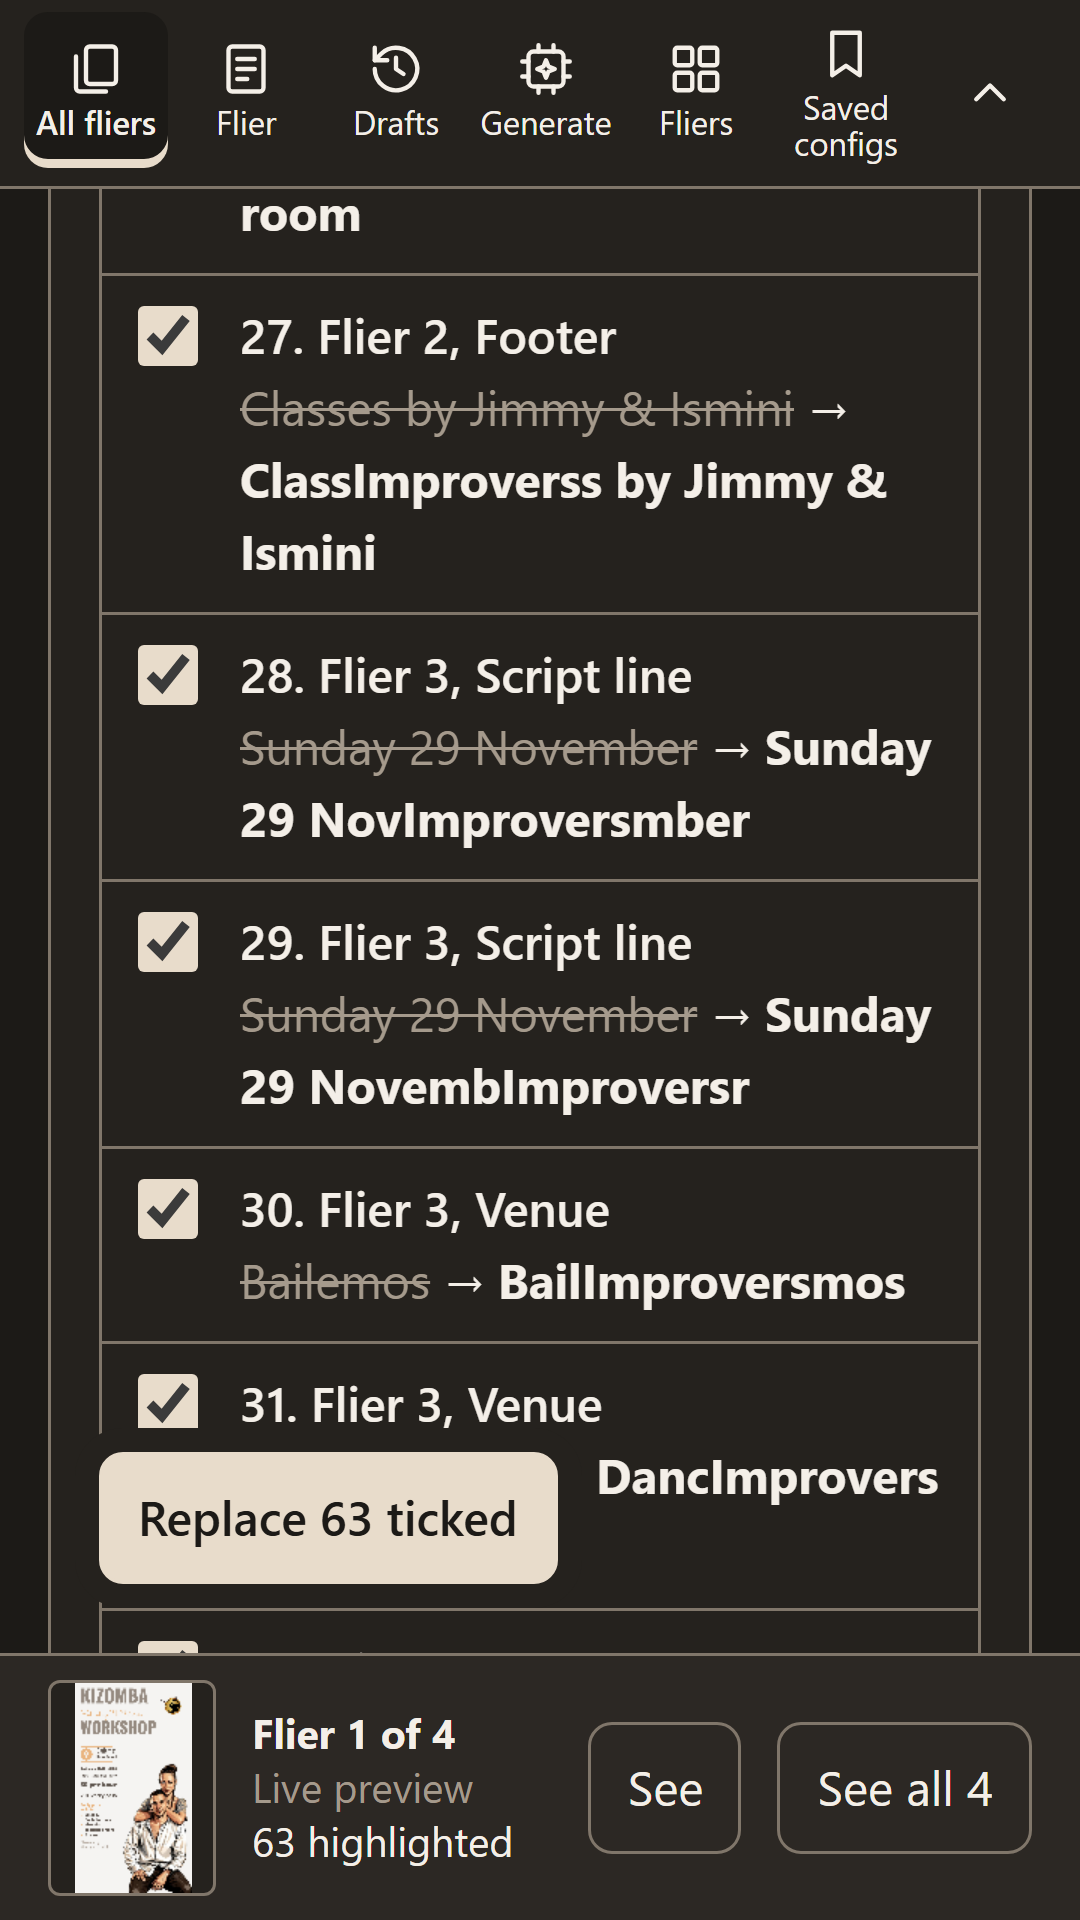
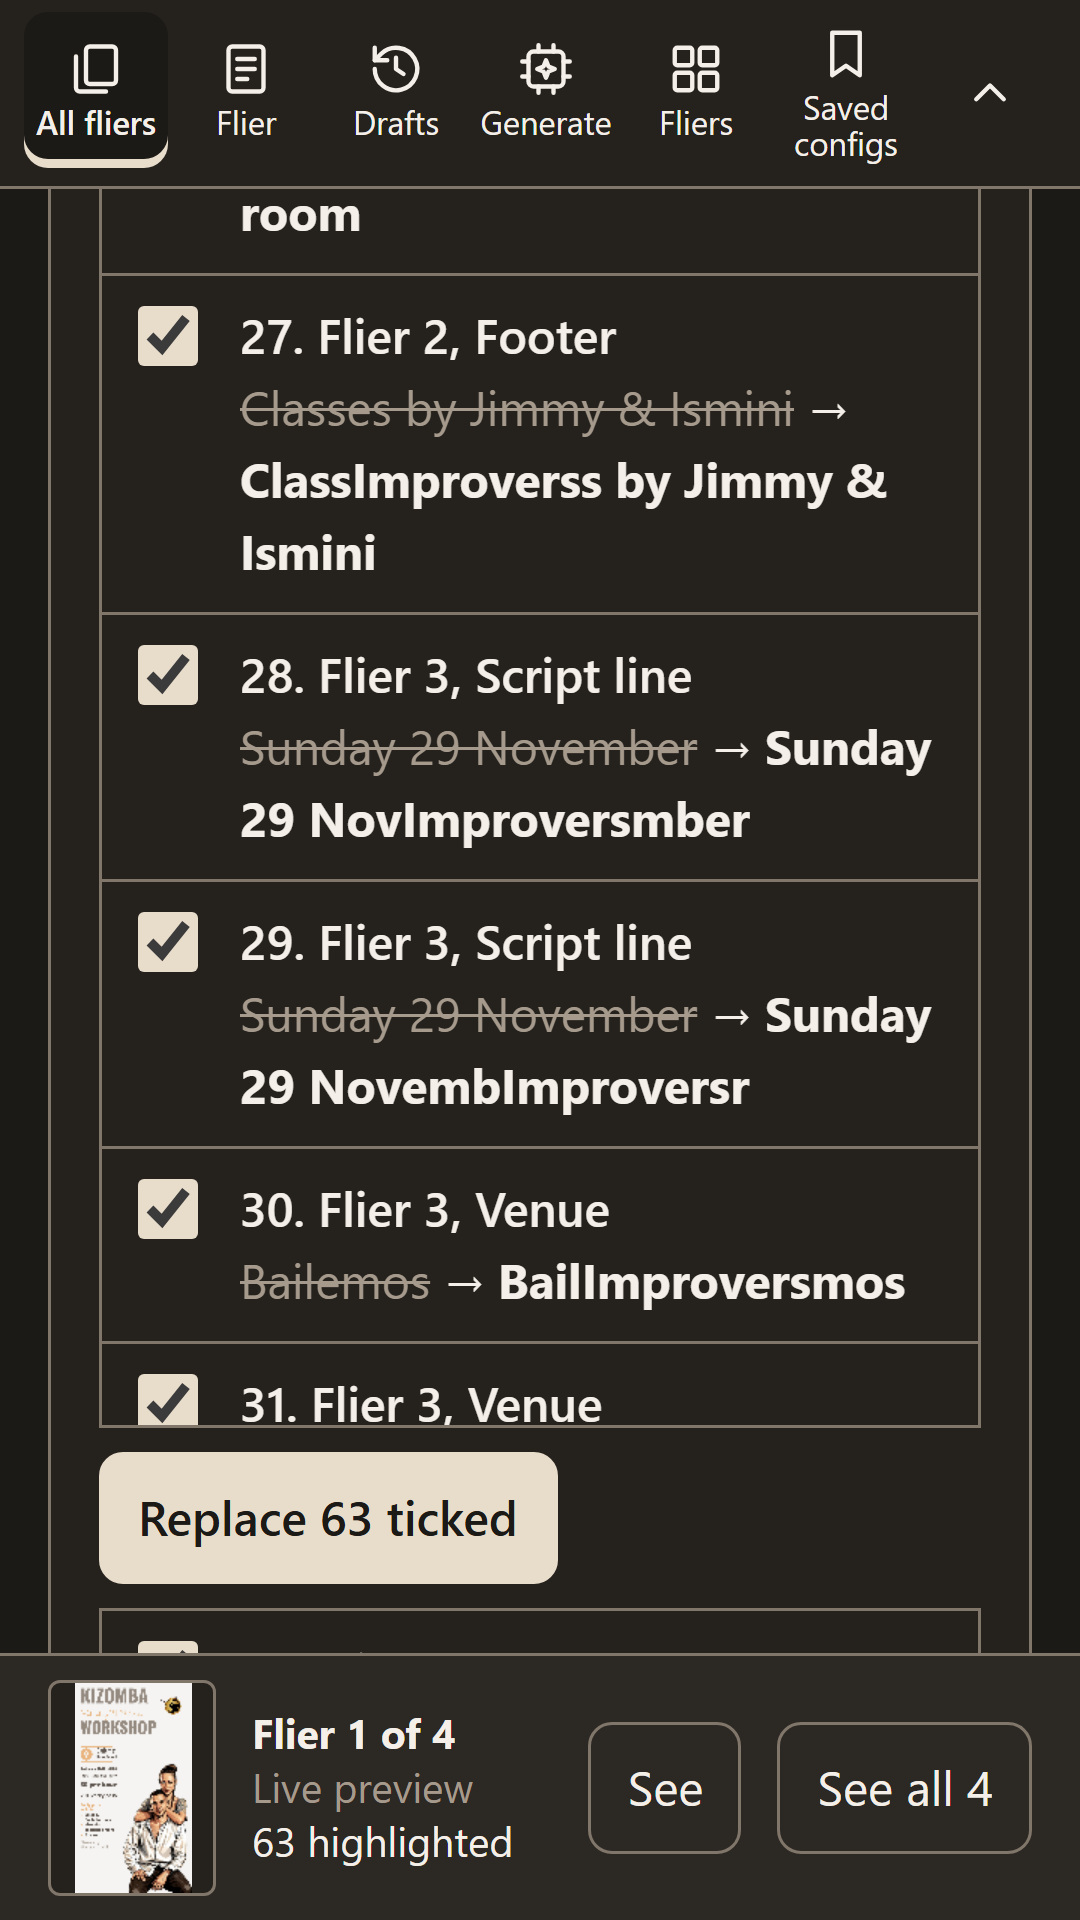
fix(FLIER-2 "Flier Studio follow-ups"): full-width sticky Replace bar, 0-doc render ticket check, restore CRLF
- Replace button sits in a full-width sticky bar (surface background, top hairline) so no row is cut beside it
- renderPreviews checks the render ticket after the draw loop, so a stale 0-flier render no longer clears the grid
- badgePlacement uses the exported offsets directly
- previews.ts, generate.ts, replacePanel.ts, sidebar.css back to their original line endings

visual-review: none -- critic REDO fix; captures in docs/design/FLIER-2-smallfixes/

Changed region(s): [[0.55, 0.75, 0.8861, 0.7812], [0.1833, 0.7812, 0.2139, 0.8125]]

diff --git a/src/ui/badgePlacement.ts b/src/ui/badgePlacement.ts
@@ -4,17 +4,15 @@ export interface Box { l: number; t: number; r: number; b: number }
 
 export const BADGE_GAP_PX = 4;
 export const BADGE_EDGE_PX = 2;
-const GAP = BADGE_GAP_PX;
-const EDGE = BADGE_EDGE_PX;
 
 function candidates(mark: Box, w: number, h: number): [BadgeSpot, Box][] {
   const mid = (mark.t + mark.b) / 2 - h / 2;
-  const left = mark.l - EDGE;
+  const left = mark.l - BADGE_EDGE_PX;
   return [
-    [BadgeSpot.Left, { l: mark.l - GAP - w, t: mid, r: mark.l - GAP, b: mid + h }],
-    [BadgeSpot.Right, { l: mark.r + GAP, t: mid, r: mark.r + GAP + w, b: mid + h }],
-    [BadgeSpot.Below, { l: left, t: mark.b + EDGE, r: left + w, b: mark.b + EDGE + h }],
-    [BadgeSpot.Above, { l: left, t: mark.t - EDGE - h, r: left + w, b: mark.t - EDGE }],
+    [BadgeSpot.Left, { l: mark.l - BADGE_GAP_PX - w, t: mid, r: mark.l - BADGE_GAP_PX, b: mid + h }],
+    [BadgeSpot.Right, { l: mark.r + BADGE_GAP_PX, t: mid, r: mark.r + BADGE_GAP_PX + w, b: mid + h }],
+    [BadgeSpot.Below, { l: left, t: mark.b + BADGE_EDGE_PX, r: left + w, b: mark.b + BADGE_EDGE_PX + h }],
+    [BadgeSpot.Above, { l: left, t: mark.t - BADGE_EDGE_PX - h, r: left + w, b: mark.t - BADGE_EDGE_PX }],
   ];
 }
 

diff --git a/src/ui/sidebar.css b/src/ui/sidebar.css
@@ -64,7 +64,8 @@
 .replace-list b { display: block; font-weight: 600; }
 .replace-list s { color: var(--text-secondary); }
 .replace-list ins { text-decoration: none; font-weight: 700; }
-.replace-results > button { justify-self: start; width: auto; position: sticky; bottom: calc(var(--mini-bar, 0px) + env(safe-area-inset-bottom) + 8px); z-index: 1; box-shadow: 0 0 0 calc(var(--gap) / 2) var(--surface); }
+.replace-bar { position: sticky; bottom: calc(var(--mini-bar, 0px) + env(safe-area-inset-bottom)); z-index: 1; padding-block: calc(var(--gap) / 2); background: var(--surface); border-top: 1px solid var(--border); }
+.replace-bar > button { width: auto; }
 .replace-marks { position: absolute; inset: 0; pointer-events: none; }
 .replace-mark { position: absolute; box-sizing: border-box; border: 2px solid var(--mark-ink); border-radius: 4px; box-shadow: 0 0 0 1px var(--mark-halo); }
 .replace-mark.off { border-style: dashed; }

diff --git a/src/ui/replacePanel.ts b/src/ui/replacePanel.ts
@@ -100,7 +100,7 @@ export function replacePanel(grid: HTMLElement, actions: ReplaceActions): Replac
   const list = el('ul', { class: 'replace-list', 'data-testid': 'replace-matches' });
   const apply = el('button', { type: 'button', class: 'primary', 'data-testid': 'replace-apply', 'aria-description': FM('hint.button', FM('replace.heading')) });
   const empty = el('p', { class: 'muted', text: FM('replace.empty') });
-  const results = el('div', { class: 'replace-results' }, [count, list, apply, el('p', { class: 'muted', text: FM('replace.note') })]);
+  const results = el('div', { class: 'replace-results' }, [count, list, el('div', { class: 'replace-bar', 'data-testid': 'replace-bar' }, [apply]), el('p', { class: 'muted', text: FM('replace.note') })]);
   const off = new Set<string>();
   let matches: ReplaceMatch[] = [];
   const isTicked = (m: ReplaceMatch): boolean => !off.has(keyOf(m));

diff --git a/src/ui/previews.render.test.ts b/src/ui/previews.render.test.ts
@@ -20,6 +20,18 @@ describe('renderPreviews', () => {
     expect(pauses).toBe(3);
   });
 
+  it('with zero fliers and a newer render already started, returns null and leaves the grid as it was', async () => {
+    const grid = document.createElement('div');
+    grid.append(document.createElement('figure'));
+    const nextRender = renderGate();
+    const stale = { ...baseView, current: nextRender() };
+    nextRender();
+
+    const result = await renderPreviews(grid, [], {}, stale);
+
+    expect({ result, figures: grid.querySelectorAll('figure').length }).toEqual({ result: null, figures: 1 });
+  });
+
   it('with a newer render finishing before an older one, leaves the grid showing the newer render', async () => {
     const grid = document.createElement('div');
     const docs = kizombaPreset();

diff --git a/src/ui/previews.ts b/src/ui/previews.ts
@@ -76,6 +76,7 @@ export async function renderPreviews(container: HTMLElement, docs: readonly Flie
     canvases[i].setAttribute('aria-label', doc.blocks.title);
     errors.push(draw(doc, assets, canvases[i]));
   }
+  if (!current()) return null;
   const figures = docs.map((doc, i) => {
     const canvas = canvases[i];
     const error = errors[i];
